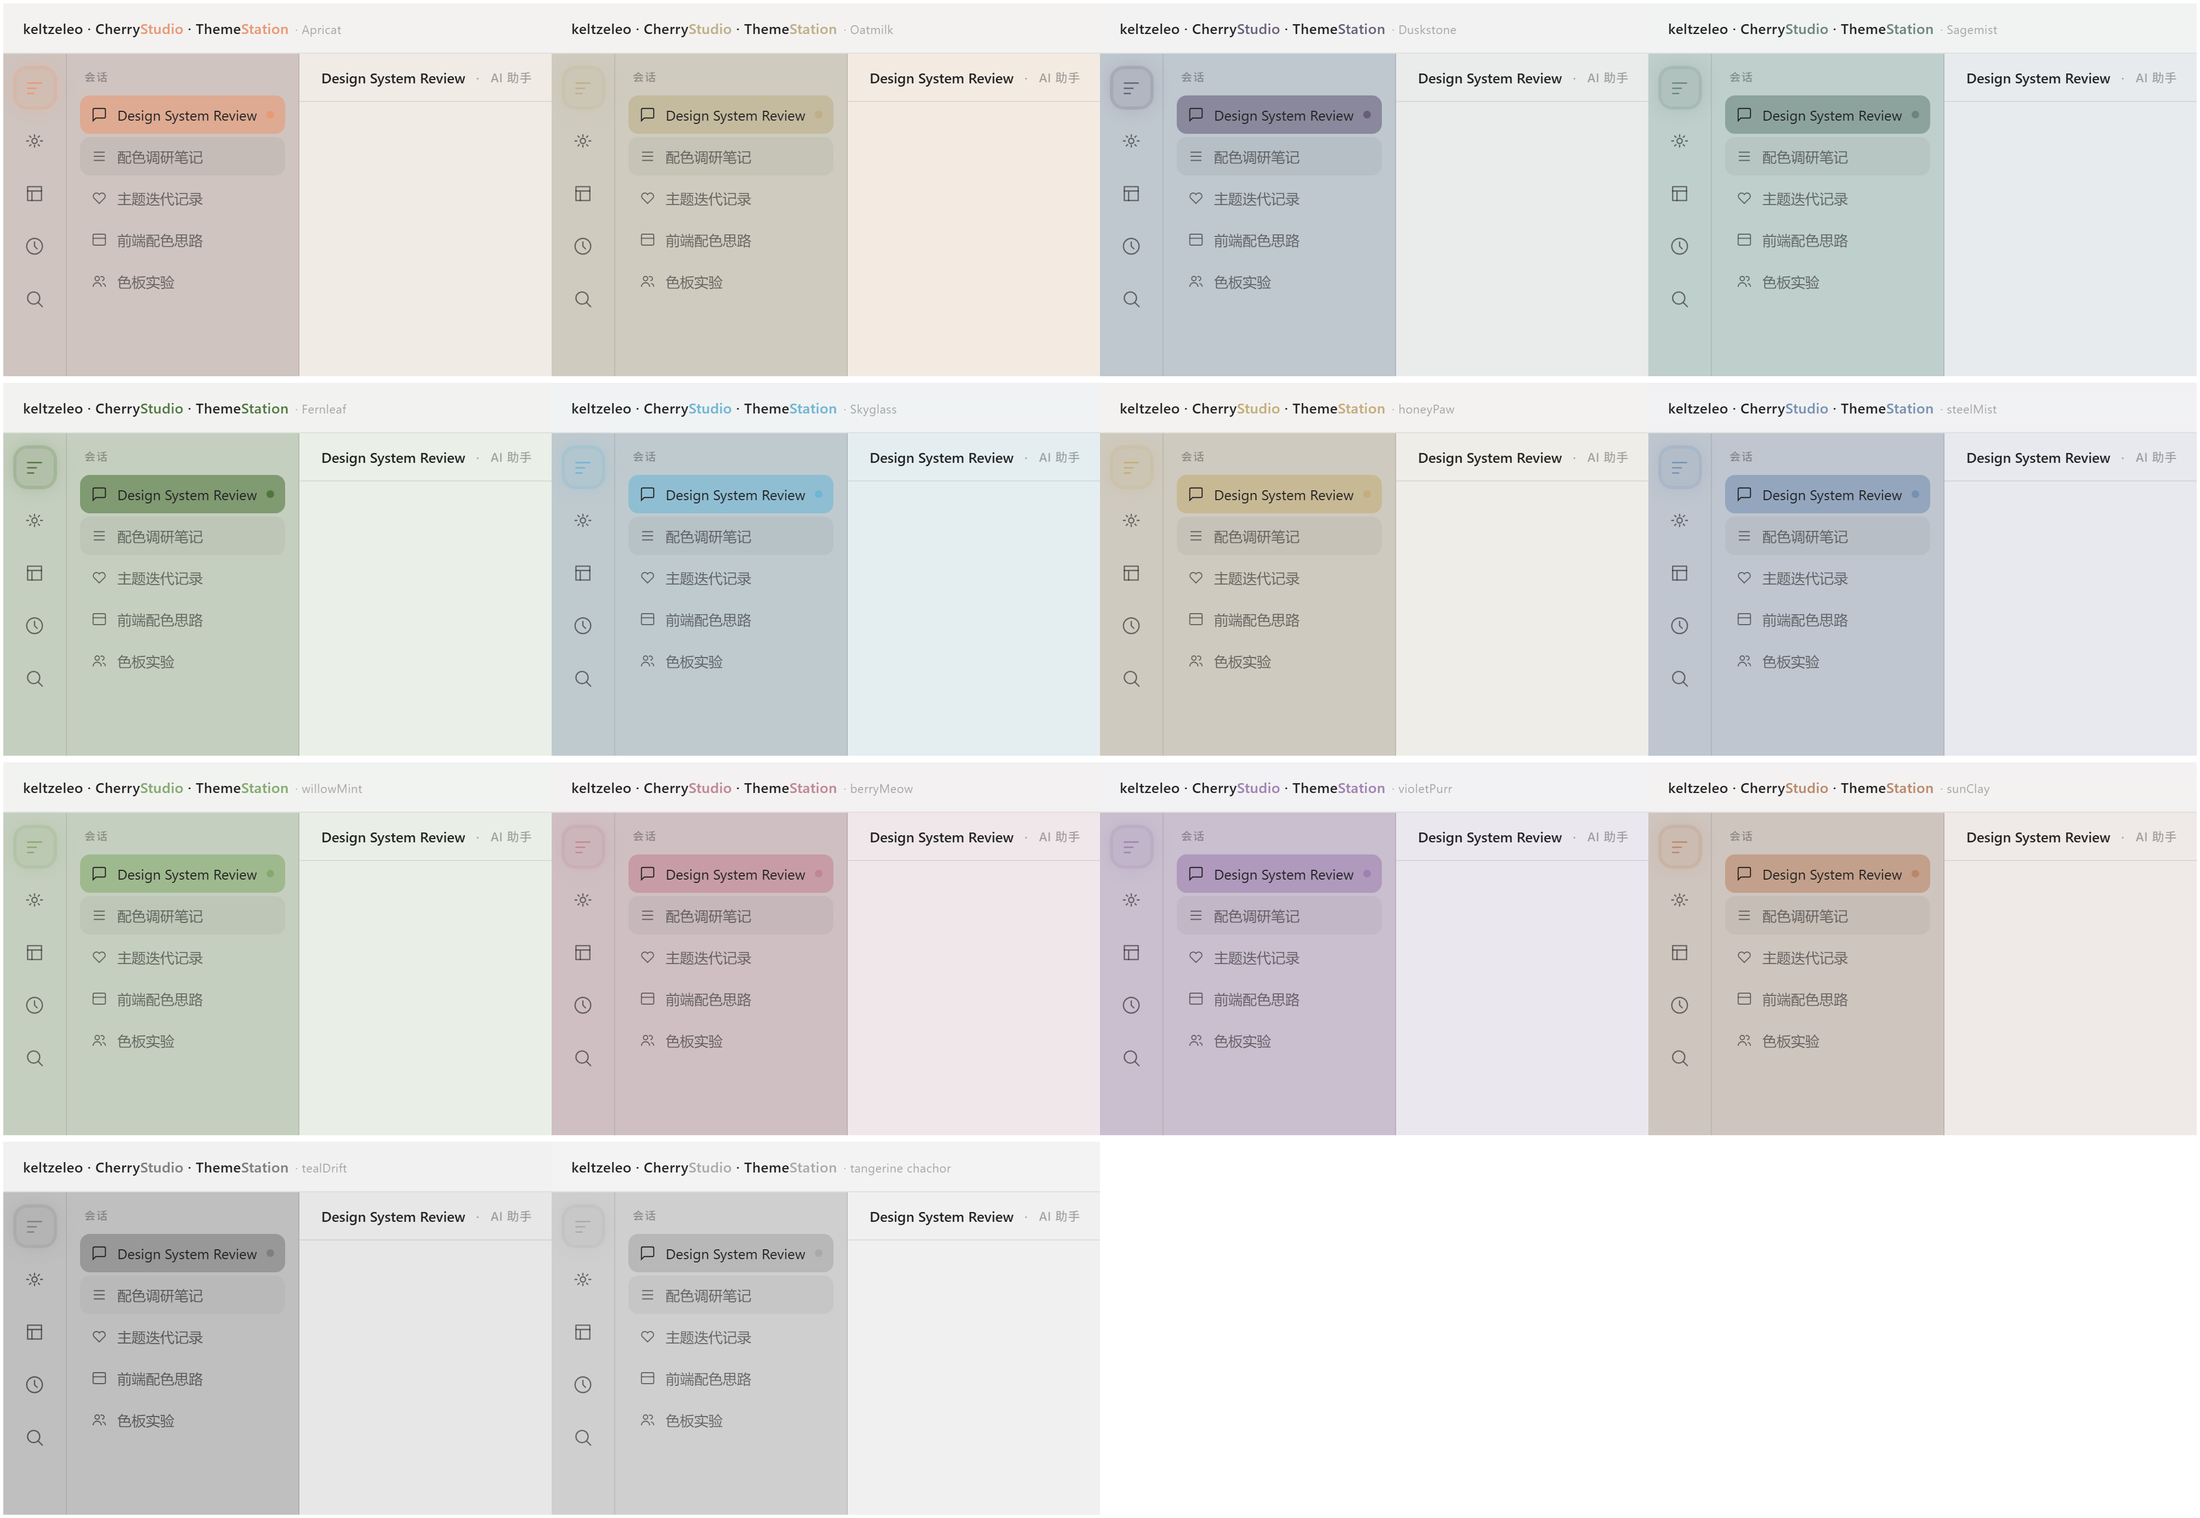
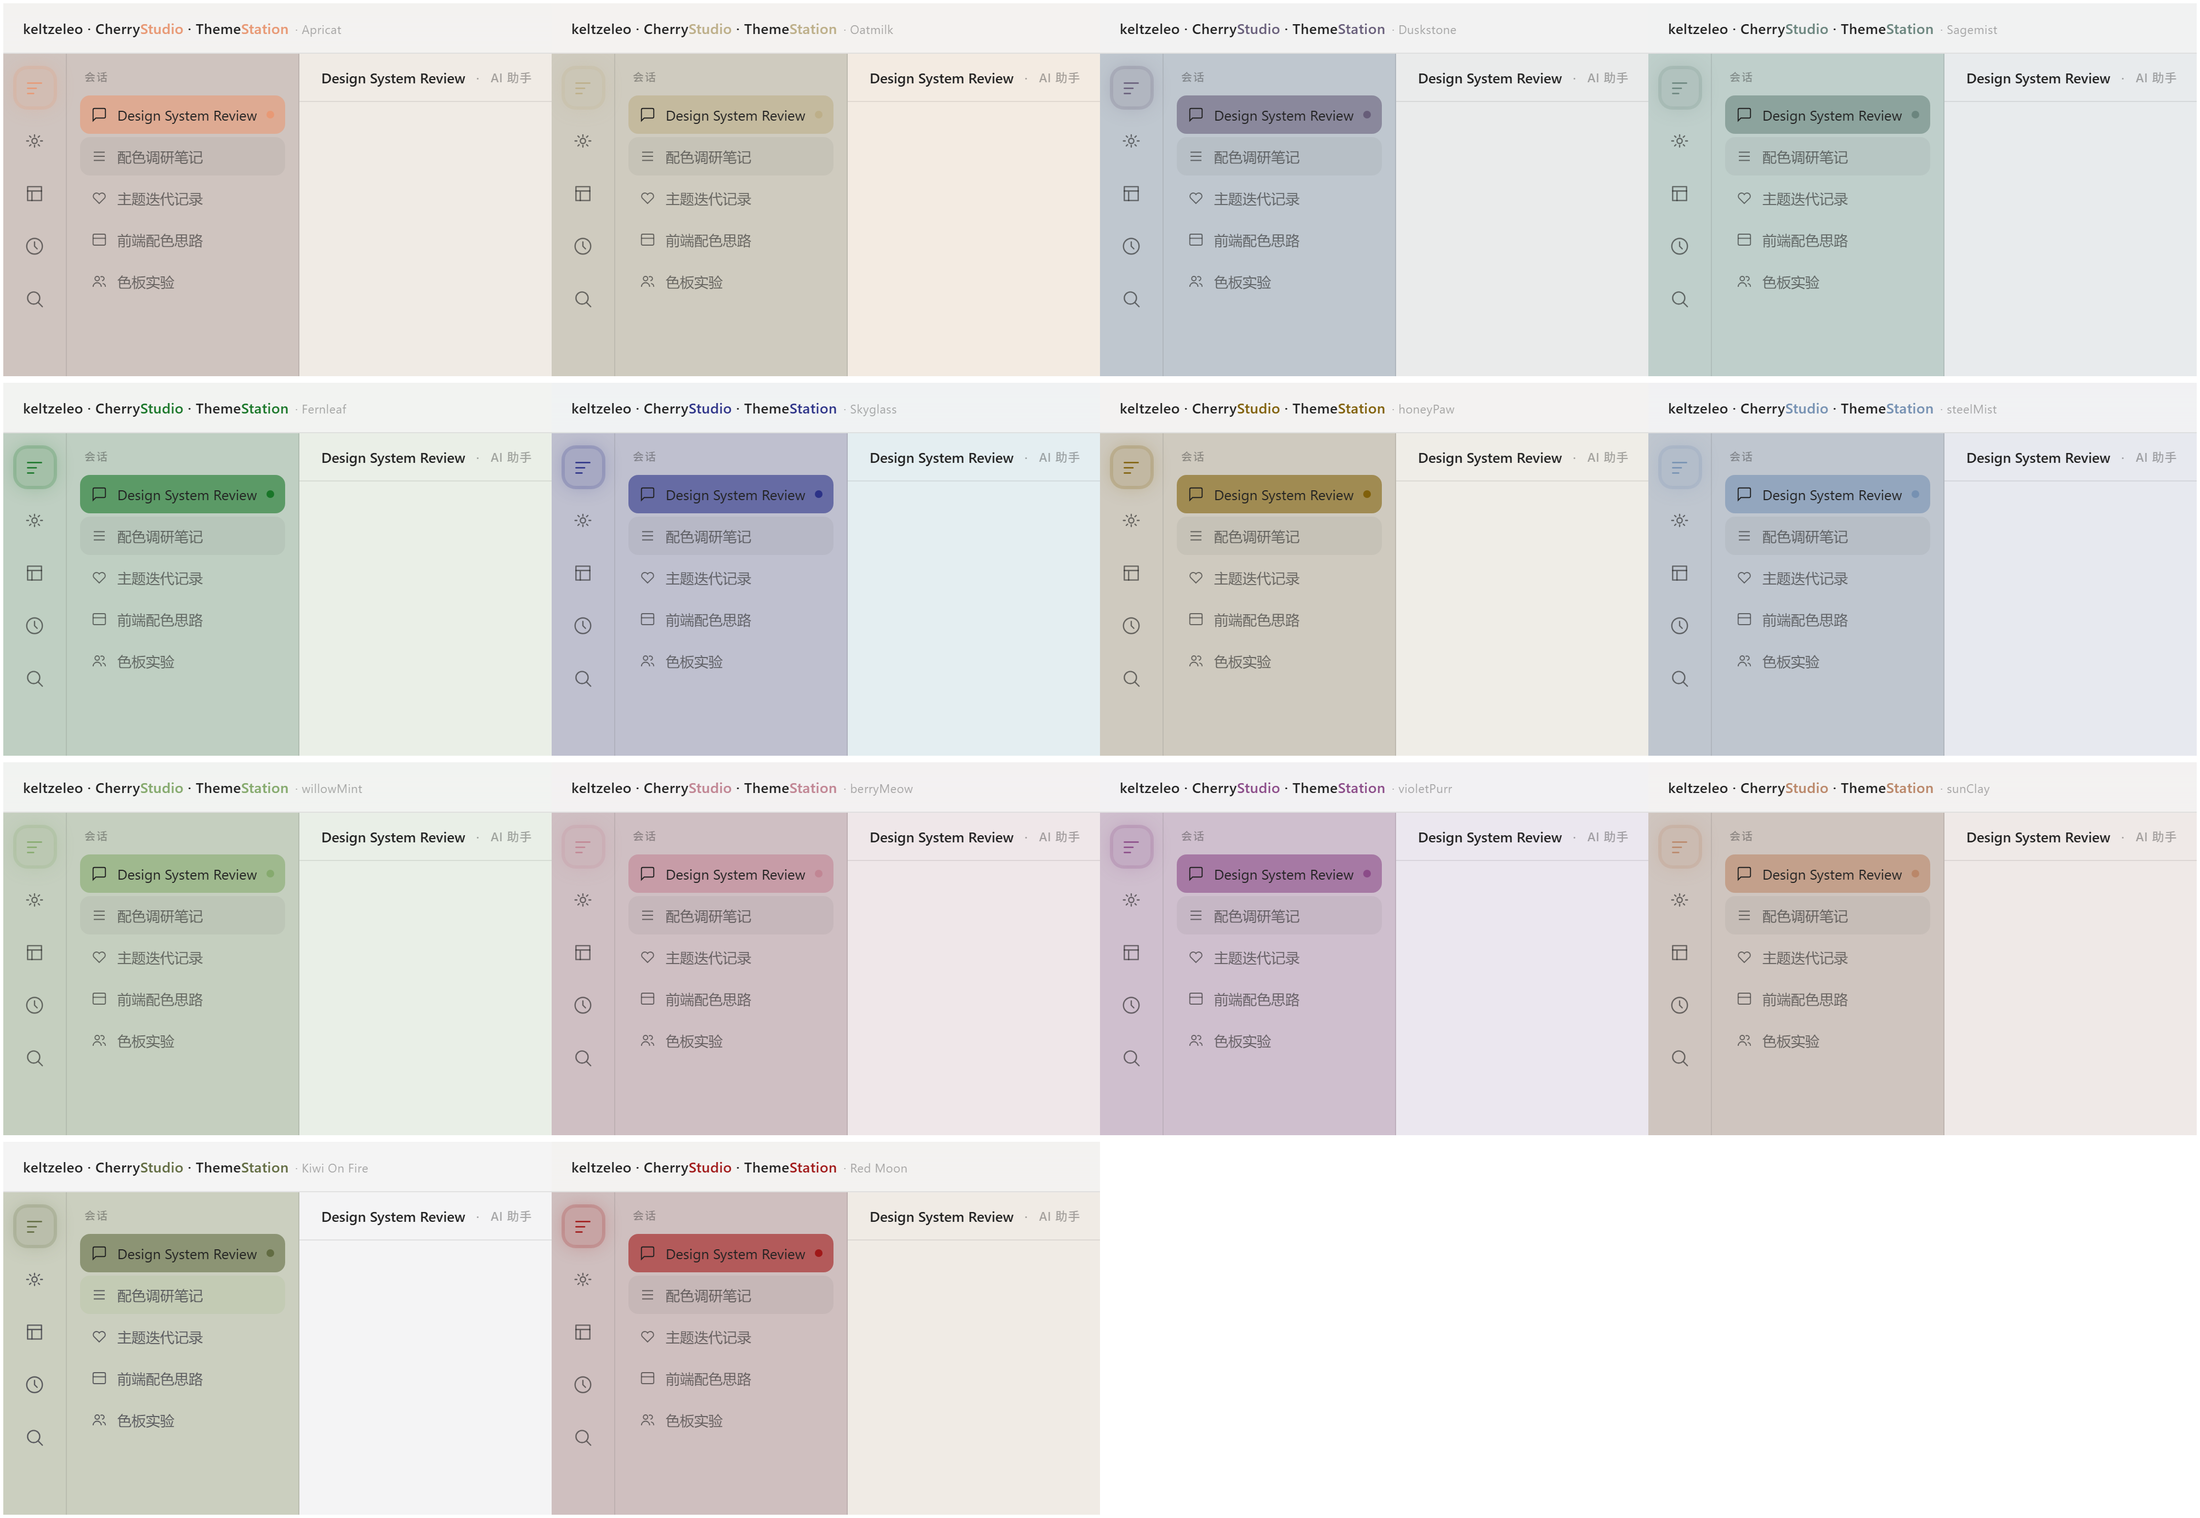
feat(presets): rename tealDrift to Kiwi On Fire, restyle from user reference
Dark mode restored byte-for-byte from the user's hand-tuned CSS export.
Light mode keeps the same values except accent (darkened for AA contrast)
and sidebar (boosted for the "confident chrome" treatment established
across the other 13 presets), with inputBg/tableRowHover pinned back to
the original light tone.

Also fixes a real bug in the gallery-image build: the padding canvas for
the trailing partial row was created from a neutral gray/white xc: color,
which ImageMagick auto-typed as Grayscale — compositing the colored
Kiwi On Fire / Red Moon cards onto it silently stripped their color in
the final PNG. Switched to padding via -extent directly on the source
image instead of compositing onto a synthetic canvas.

diff --git a/src/theme/presets.js b/src/theme/presets.js
@@ -47,14 +47,21 @@ export const PRESETS = [
     dark:{ bg:'#272a2b', soft:'#333738', mute:'#3f4446', accent:'#ba8769', link:'#45add3', ai:'rgba(186,135,105,.05)', user:'rgba(186,135,105,.08)', userText:'rgba(255,255,250,0.96)' },
     light:{ bg:'#efe9e7', soft:'#cfc5bf', mute:'#d1bdb8', accent:'#ba8769', link:'#45add3', ai:'rgba(186,135,105,.1)', user:'rgba(186,135,105,.32)', userText:'#1e2026',
       inputBg:'#e0d5d1', tableRowHover:'#e0d5d1' } },
-  { name:'tealDrift', cert:'自建', own:true, scheme:'triadic', glow:['#4dc7ac','#6f4dc7','#c74d67','#a4c74d','#4d82c7'],
-    dark:{ bg:'#2b2728', soft:'#383334', mute:'#463f40', accent:'#70a99d', link:'#d34564', ai:'rgba(112,169,157,.05)', user:'rgba(112,169,157,.08)', userText:'rgba(255,255,250,0.96)',
-      reference:'#50867b', referenceText:'#cfccbe', referenceBg:'#374341' },
-    light:{ bg:'#e7efed', soft:'#bfcfcd', mute:'#b8d1cb', accent:'#7fada8', link:'#d34564', ai:'rgba(127,173,168,.1)', user:'rgba(127,173,168,.32)', userText:'#1e2026',
-      inputBg:'#d1e0dd', tableRowHover:'#d1e0dd',
-      text2:'rgba(62,62,71,.8)', hover:'rgba(145,175,110,.13)', active:'rgba(112,169,157,.08)',
-      thinking:'#f4f6f4', thinkingText:'#566c67',
-      reference:'#a28781', referenceText:'#5a473a', referenceBg:'#eadfdc' } },
+  { name:'Kiwi On Fire', cert:'自建', own:true, scheme:'triadic', glow:['#4dc7ac','#6f4dc7','#c74d67','#a4c74d','#4d82c7'],
+    // 深色按用户在预览里手改后导出的真实 CSS 逐字节还原，不做任何"优化"。
+    dark:{ bg:'#1f1f23', soft:'#1a1a1e', mute:'#3b2b2e', accent:'#7f8b55', link:'#d34564', ai:'rgba(112,169,157,.05)', user:'rgba(112,169,157,.08)', userText:'rgba(255,255,250,0.96)',
+      tableHeader:'#3e4d38', tableHeaderText:'#ced8ca',
+      thinking:'#33352c', thinkingBorder:'#525742', thinkingText:'#b4bd93',
+      reference:'#50867b', referenceText:'#becfc2', referenceBg:'#374341' },
+    // 浅色同样来自用户导出的 CSS，只在两处按本轮的通用原则收紧：
+    // accent 单独配一个更暗的浅色版本以过 AA（侧栏一样，深色仍用原色不受影响）；
+    // sidebar 提到中间调（同色相、更高饱和度），输入框/表格悬停钉回原浅色，不被带深。
+    light:{ bg:'#f4f4f5', soft:'#cbcfbf', mute:'#f4e5e5', accent:'#626c42', link:'#d34564', ai:'rgba(106,144,107,.1)', user:'rgba(127,139,85,.23)', userText:'#3a453e',
+      inputBg:'#dce0d7', tableRowHover:'#dce0d7',
+      text2:'rgba(62,62,71,.8)', hover:'rgba(145,175,110,.13)', active:'rgba(127,139,85,.08)',
+      tableHeader:'#c8d3da', tableHeaderText:'#475a66',
+      thinking:'#ebeee2', thinkingBorder:'#e0e1db', thinkingText:'#8c9669',
+      reference:'#81a287', referenceText:'#5a473a', referenceBg:'#cfddca' } },
   { name:'Red Moon', cert:'自建', own:true, scheme:'analogous', glow:['#E89975','#B48CA8','#7997C2','#D4A867','#8DB578'],
     dark:{ bg:'#2b2b2b', soft:'#303030', mute:'#333333', accent:'#a01818', link:'#338cff', ai:'rgba(255,255,255,.05)', userText:'#F0F0F0',
       reference:'#cc8a52', referenceText:'#e6d2bb', referenceBg:'#3d2e22' },

diff --git a/README.md b/README.md
@@ -18,7 +18,7 @@ What you see is **exactly** what gets exported, for **both** Cherry Studio
 [![License](https://img.shields.io/badge/license-MIT-blue.svg)](./LICENSE)
 [![React](https://img.shields.io/badge/React-19-61dafb.svg)](https://react.dev)
 [![Vite](https://img.shields.io/badge/Vite-8-646cff.svg)](https://vite.dev)
-[![Tests](https://img.shields.io/badge/tests-69%2F69%20passing-brightgreen.svg)](#-tests--测试)
+[![Tests](https://img.shields.io/badge/tests-70%2F70%20passing-brightgreen.svg)](#-tests--测试)
 [![Presets](https://img.shields.io/badge/presets-14%20ready--made-orange.svg)](#-presets--预设)
 
 </div>
@@ -129,8 +129,16 @@ The v2 exporter writes **light as `:root:root` and dark as `:root.dark`** — bo
 | `berryMeow` | `#c18694` | splitComp · 分裂互补 |
 | `violetPurr` | `#8b4b88` | analogous · 邻近 |
 | `sunClay` | `#ba8769` | monochrome · 同色相 |
-| `tealDrift` | `#70a99d` | triadic · 三足 |
+| `Kiwi On Fire` | `#7f8b55` | triadic · 三足 |
 | `Red Moon` | `#a01818` | analogous · 邻近 |
+
+### All 14, in both modes · 十四色，深浅两套
+
+<p align="center">
+  <img src="theme-station-dark-gallery.png" alt="All 14 presets shown side by side in dark mode" width="100%" />
+</p>
+
+<p align="center"><sub>Dark mode, side by side — fourteen distinct accent identities, none of them fighting for the same hue. 深色模式一次看全，十四个 accent 各有各的位置，不会撞色。</sub></p>
 
 ### Light mode, designed on its own terms · 浅色不是深色的换算题
 
@@ -176,10 +184,10 @@ npm run dev
 
 ## ✅ Tests · 测试
 
-**69/69 passing** — every edit is regression-checked.
+**70/70 passing** — every edit is regression-checked.
 
 - `test/export-consistency.test.js` + `test/export-v2.test.js` · **49 tests** — locks the invariant that exported CSS values match the preview variables exactly (the Morandi-desaturated harmony surfaces for thinking box / table header / reference / code-name, the accent-tinted assistant/user bubble chips, and the v2.0.9 four-layer `--cs-*`/bare-shadcn surface with boosted specificity).
-- `test/ui/*.test.jsx` · **20 tests** — interaction (click-to-edit, undo/redo, draft fork, export-target switching), alpha-channel consistency, and the R/G/B/alpha numeric color inputs.
+- `test/ui/*.test.jsx` · **21 tests** — interaction (click-to-edit, undo/redo, draft fork, export-target switching, popover drag parity with the dock), alpha-channel consistency, and the R/G/B/alpha numeric color inputs.
 
 ---
 
